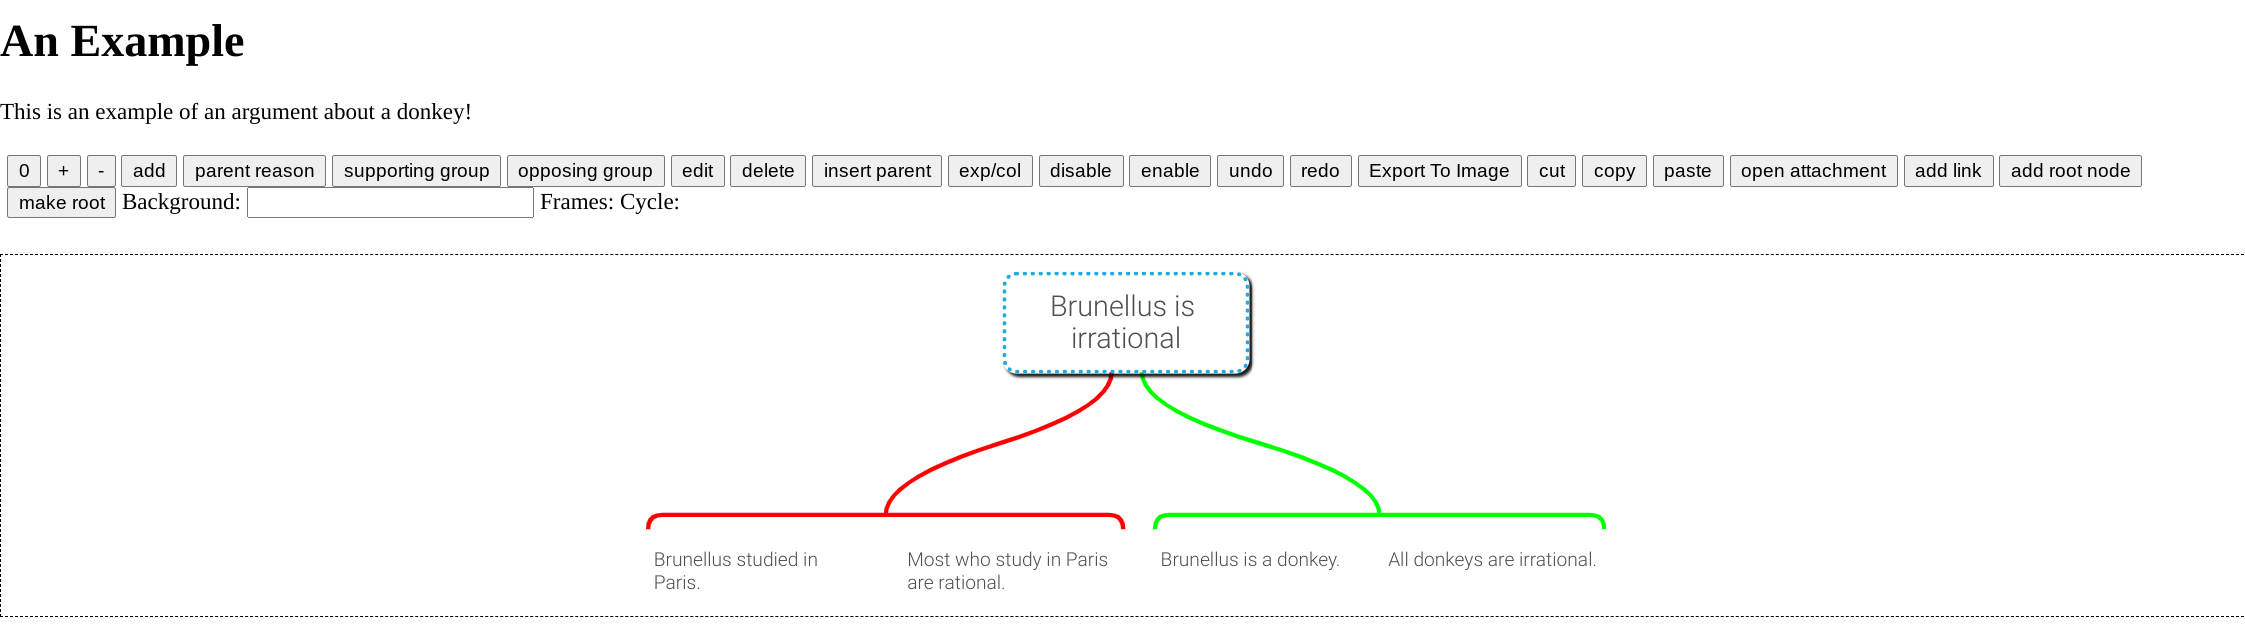
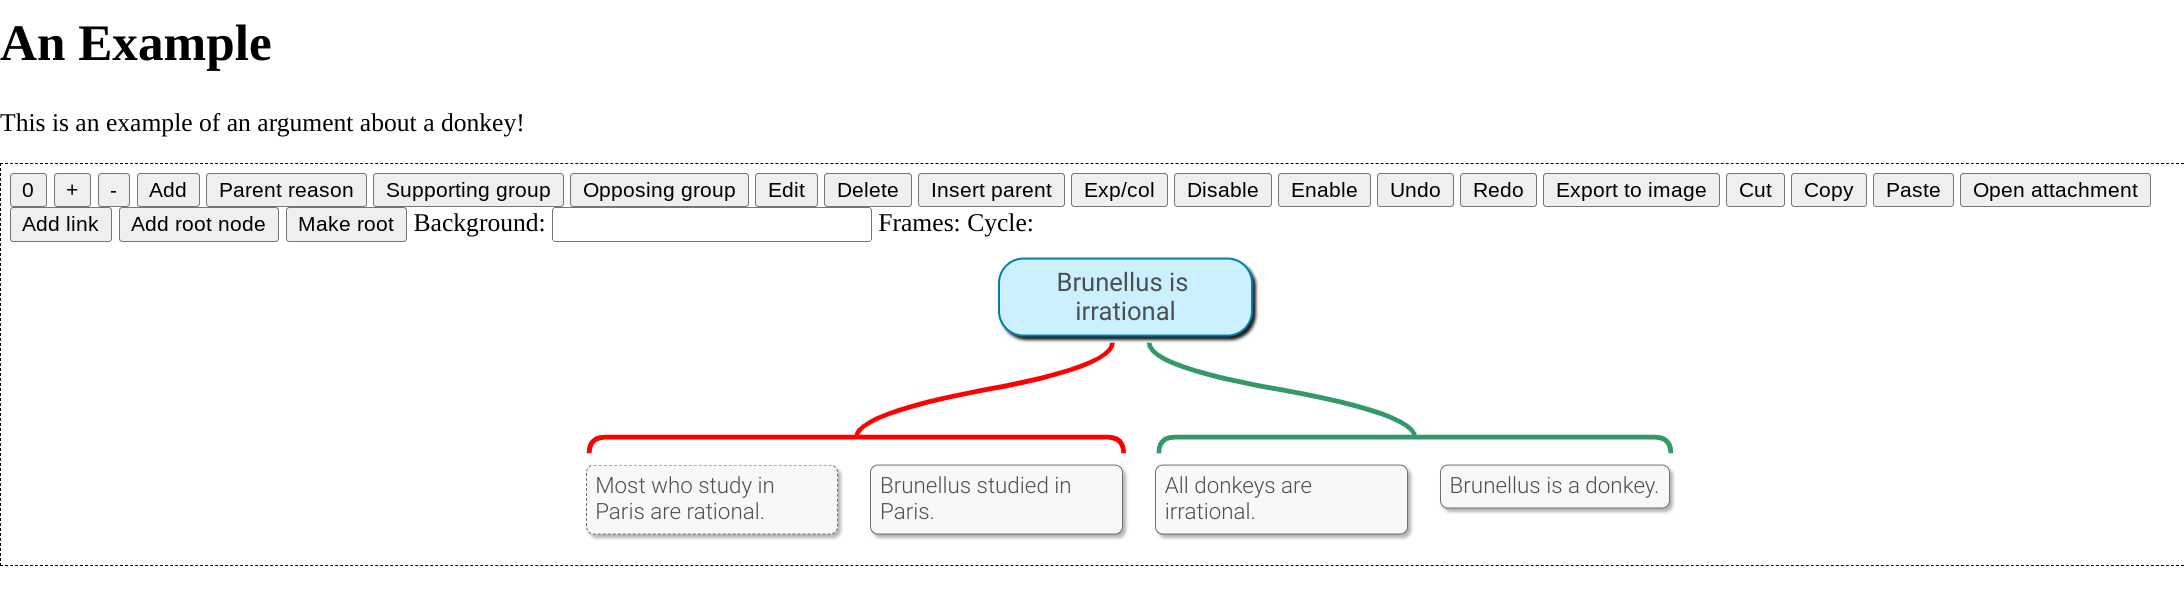
4.11.4 fix(docs): Update screenshots:
- Update screenshots to use latest mapjs appearance:
  - Update docs to use latest screenshots:
    - `test/input/html/example-updated.html`: Update example input html.
      - Update links to it in [README.md](../README.md).
    - Add mapjs example screenshot to [mapjs README](../mapjs/README.md).

diff --git a/test/input/html/example-updated.html b/test/input/html/example-updated.html
@@ -1,0 +1,82 @@
+<!DOCTYPE html>
+<html xmlns="http://www.w3.org/1999/xhtml" lang="" xml:lang="" >
+
+<head>
+  <meta charset="utf-8" />
+  <meta name="generator" content="pandoc" />
+  <meta name="viewport" content="user-scalable=no, width=device-width, initial-scale=1, maximum-scale=1">
+          <title>An Example</title>
+  <!-- 
+    Moved inline styles to mapjs-default-styles.css
+    <style>
+    mapjs-inline-styles.css()
+  </style> -->
+    <link rel="stylesheet" href="/mapjs-default-styles.css" />
+        <!--[if lt IE 9]>
+    <script src="//cdnjs.cloudflare.com/ajax/libs/html5shiv/3.7.3/html5shiv-printshiv.min.js"></script>
+  <![endif]-->
+</head>
+
+<body>
+      <header id="title-block-header">
+    <h1 class="title">An Example</h1>
+                  </header>
+      <p>This is an example of an argument about a donkey!</p>
+      <div id="container_" class="container_argmapjs" tabindex="0">
+        <script type="application/json" class="argmap_json" src="/output/mapjs-json/example-updated_.json"></script>
+      <!-- Used as pandoc partials template by mapjs-quick-json.html; Also read by pandoc-argmap.lua filter, with BLOCK_ID substituted by filter -->
+      <div id="testcontrols_" class="mapjs_control">
+        <input type="button" class="resetView" value="0"></input>
+        <input type="button" class="scaleUp" value="+"></input>
+        <input type="button" class="scaleDown" value="-"></input>
+        <input type="button" class="addSubIdea" value="Add"></input>
+        <input type="button"
+          onclick="mapInstance[this.parentElement.parentElement.id].mapModel.insertIntermediateGroup('click', {group:'supporting'})"
+          value="Parent reason"></input>
+        <input type="button"
+          onclick="mapInstance[this.parentElement.parentElement.id].mapModel.addGroupSubidea('click', {group:'supporting'})"
+          value="Supporting group"></input>
+        <input type="button"
+          onclick="mapInstance[this.parentElement.parentElement.id].mapModel.addGroupSubidea('click', {group:'opposing'})"
+          value="Opposing group"></input>
+        <input type="button" class="editNode" value="Edit"></input>
+        <input type="button" class="removeSubIdea" value="Delete"></input>
+        <input type="button" class="insertIntermediate" value="Insert parent"></input>
+        <input type="button" class="toggleCollapse" value="Exp/col"></input>
+        <input type="button" onclick="mapInstance[this.parentElement.parentElement.id].mapModel.setInputEnabled(false)"
+          value="Disable"></input>
+        <input type="button" onclick="mapInstance[this.parentElement.parentElement.id].mapModel.setInputEnabled(true)"
+          value="Enable"></input>
+        <input type="button" class="undo" value="Undo"></input>
+        <input type="button" class="redo" value="Redo"></input>
+        <input type="button" data-mm-action="export-image" value="Export to image" />
+        <input type="button" class="cut" value="Cut"></input>
+        <input type="button" class="copy" value="Copy"></input>
+        <input type="button" class="paste" value="Paste"></input>
+        <input type="button" class="openAttachment" value="Open attachment"></input>
+        <input type="button" class="toggleAddLinkMode" value="Add link"></input>
+        <input type="button" class="insertRoot" value="Add root node"></input>
+        <input type="button" class="makeSelectedNodeRoot" value="Make root"></input>
+        Background: <input type="text" class='updateStyle' data-mm-target-property='background'></input>
+        Frames: <span id="framerate_" class="framerate"></span>
+        Cycle: <span id="cyclerate_" class="cyclerate"></span>
+        <div id="linkEditWidget_" class="linkEditWidget">
+          <input class="delete" type="button" value="Delete"></input>
+          <select class="color">
+            <option value="red">Red</option>
+            <option value="blue">Blue</option>
+          </select>
+          <select class="lineStyle">
+            <option value="solid">Solid</option>
+            <option value="dashed">Dashed</option>
+          </select>
+          <button class="arrow">Arrow</button>
+        </div>
+      </div>
+      </div>
+  <style id="themecss">
+  </style>
+  <script src="/js/bundle.js"></script>
+  </body>
+
+</html>

diff --git a/README.md b/README.md
@@ -605,7 +605,7 @@ You can display MindMup JSON files on a web page as an interactive mindmap witho
 
 Here is an example:
 
-|[![Argument Map Example 1 in mapjs format](docs/mapjs-example-brunellus-argmap-theme.png)](test/input/html/example-updated_.html "Argument Mapjs Example 1 - Brunellus")|
+|[![Argument Map Example 1 in mapjs format](docs/mapjs-example-brunellus-argmap-theme.png)](test/input/html/example-updated.html "Argument Mapjs Example 1 - Brunellus")|
 |-------------------------------|
 
 mapjs is an earlier, open source version of MindMup, and while it does not look as attractive, it provides similar functionality.
@@ -670,7 +670,7 @@ For all other formats, it uploads the MindMup file to Google Drive and generates
 
 ## Generating Interactive Argument Maps (mapjs)
 
- |[![Argument Map Example 1 in mapjs format, embedded in html page](docs/mapjs-in-html-example.png)](test/input/html/example-updated_.html "Argument Mapjs Example 1")|
+ |[![Argument Map Example 1 in mapjs format, embedded in html page](docs/mapjs-in-html-example.png)](test/input/html/example-updated.html "Argument Mapjs Example 1")|
  |----------------|
 
 This interactive mindmap format is an alternative way to display your argument maps in html pages.

diff --git a/mapjs/README.md b/mapjs/README.md
@@ -2,6 +2,9 @@
 
 MindMup is a zero-friction mind map canvas. Our aim is to create the most productive mind mapping environment out there, removing all the distractions and providing powerful editing shortcuts.
 
+|[![Example Map](docs/mapjs-example-screenshot.png)](site/input/html/legacy-mapjs-example-map.html "Example Map")|
+|----------------------------|
+
 This project is the JavaScript visualisation portion of MindMup. It provides a canvas for users to create and edit mind maps in a browser. You can see an example of this live at [mindmup.com](http://www.mindmup.com), or play with the library directly in the browser using `test/index.html` from this project.
 
 This project is relatively stand alone and you can use it to create a nice mind map visualisation separate from the [MindMup Server](https://www.mindmup.com).

diff --git a/docs/CHANGELOG.md b/docs/CHANGELOG.md
@@ -9,6 +9,14 @@
   - Add note about linking/using templates (html and latex) with pandoc.
 - Add references to argmap specs?
 
+## argmap 4.11.4
+
+- Update screenshots to use latest mapjs appearance:
+  - Update docs to use latest screenshots:
+    - `test/input/html/example-updated.html`: Update example input html.
+      - Update links to it in [README.md](../README.md).
+    - Add mapjs example screenshot to [mapjs README](../mapjs/README.md).
+
 ## argmap 4.11.3
 
 - `mapjs/site/mapjs-default-styles.css`: Update comments.
